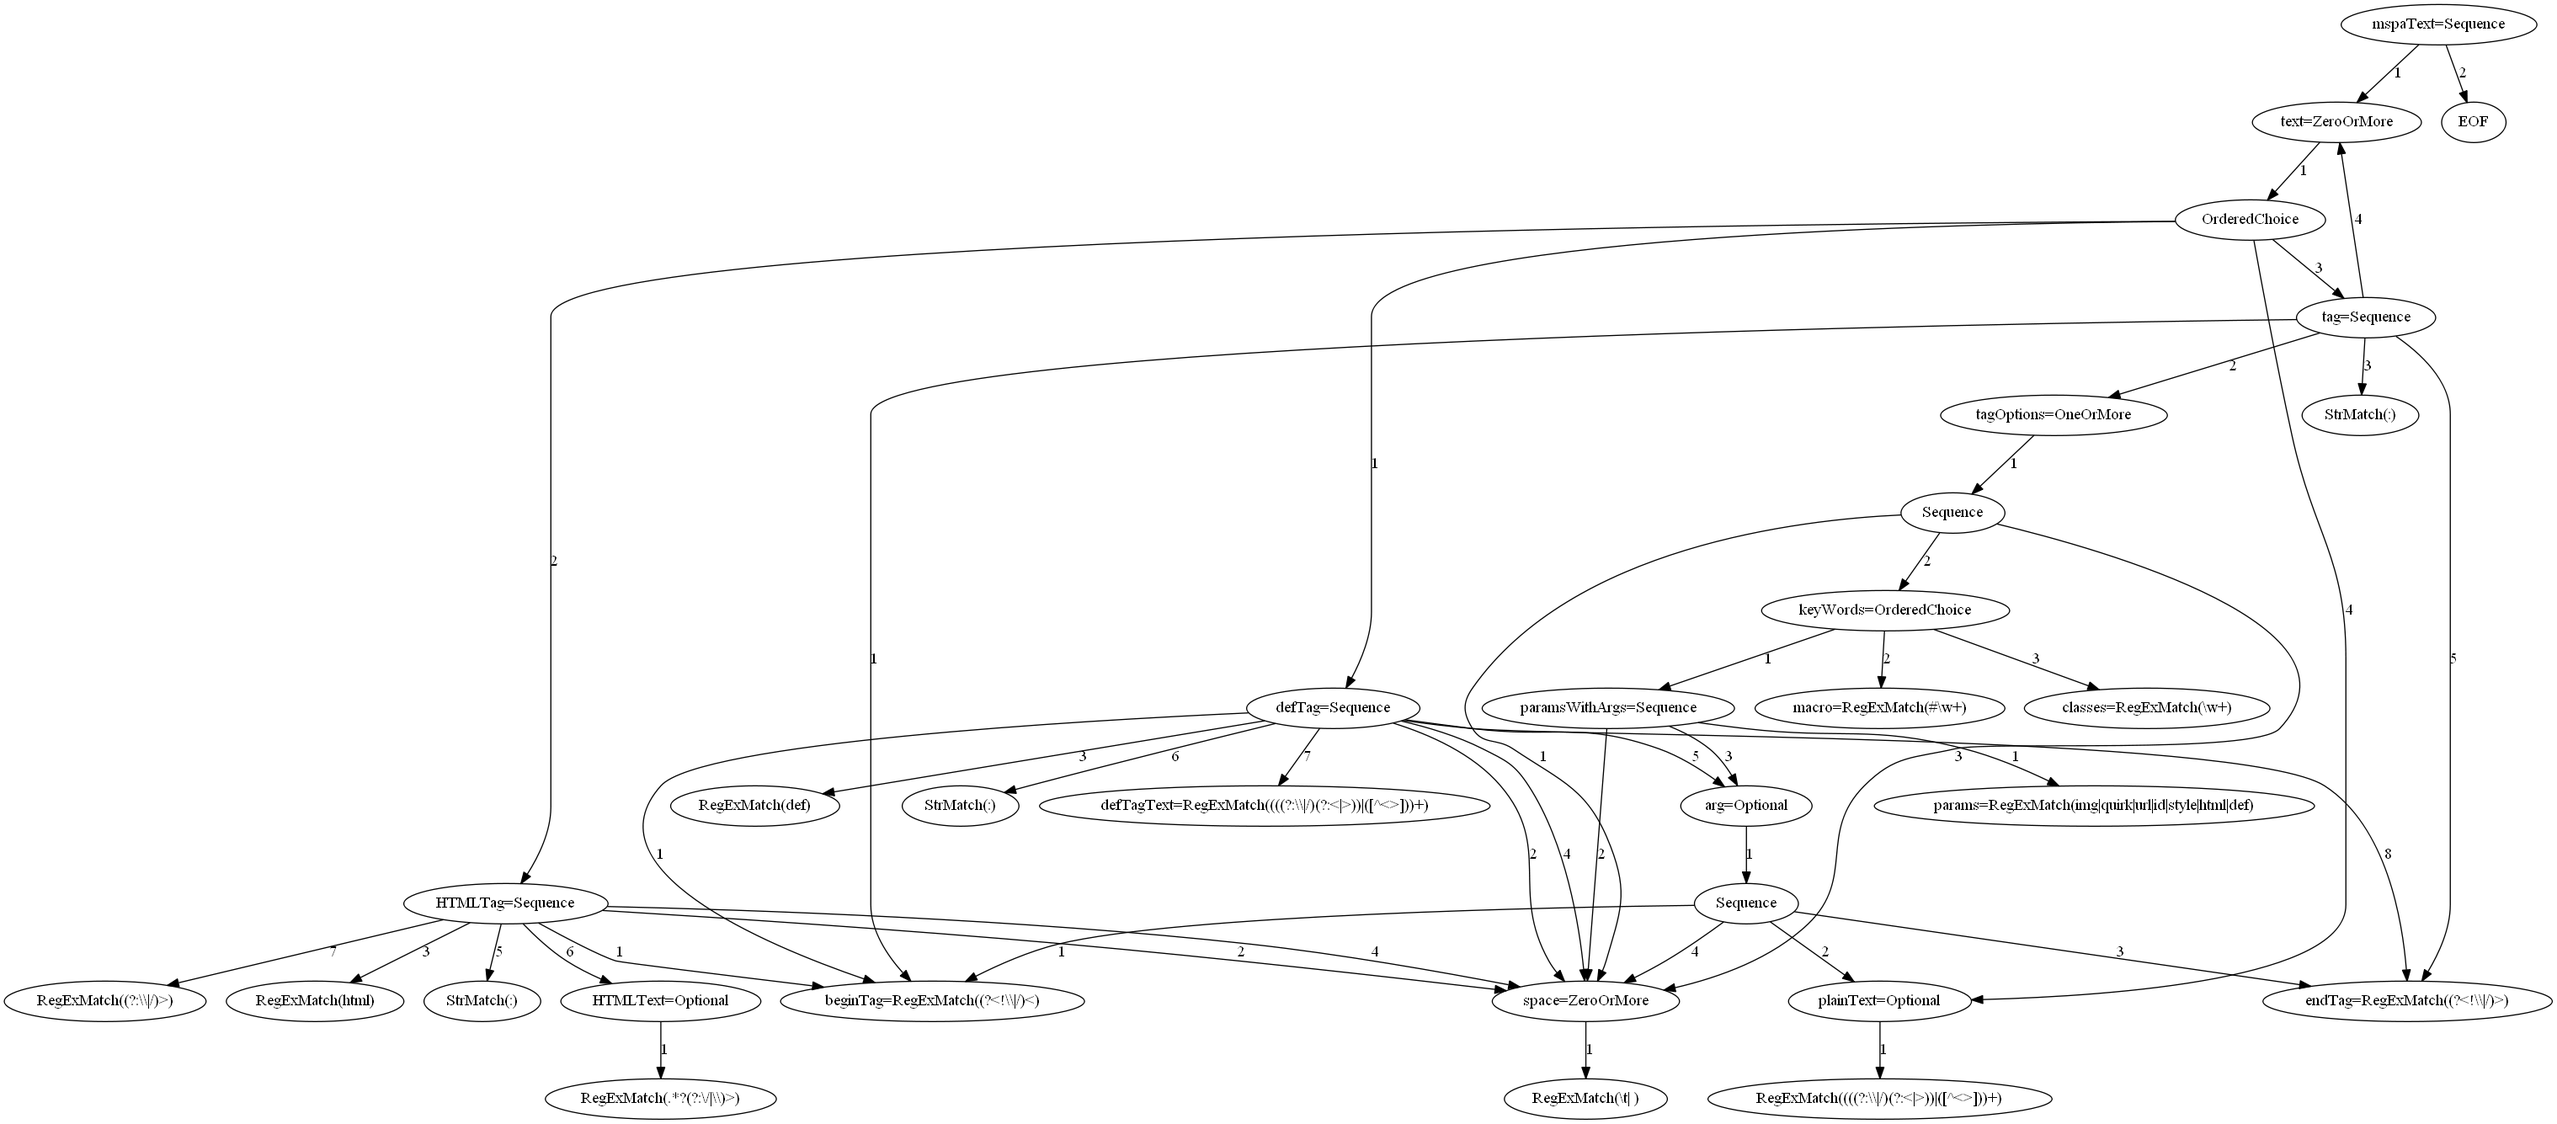
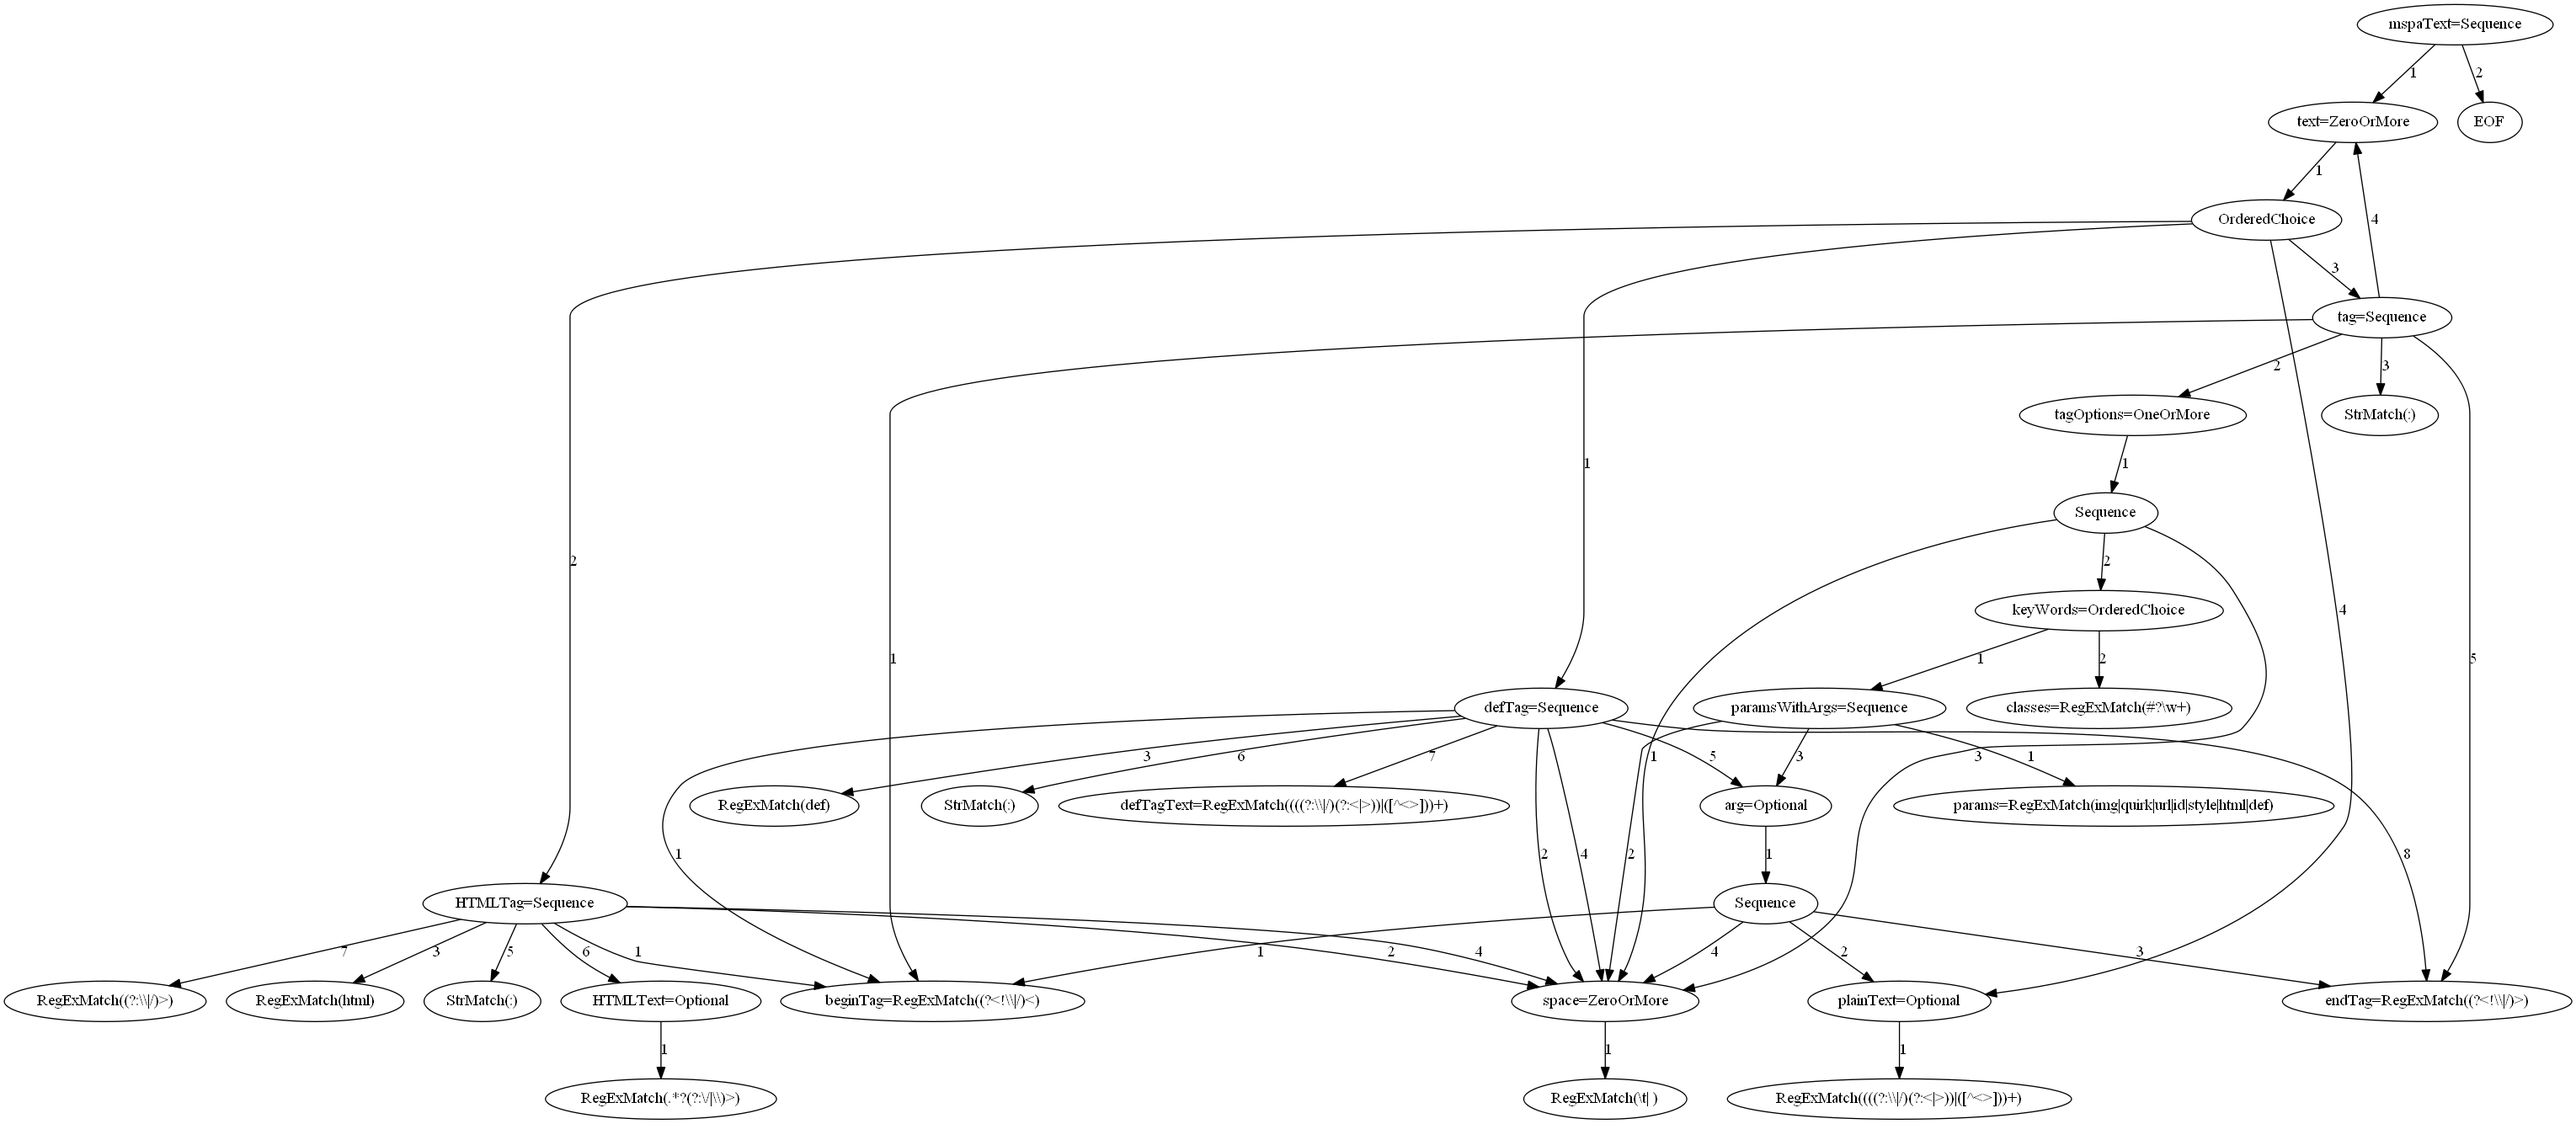
Macros are a part of classes Fixed capitalization Changed interpretation of "def" tag content

diff --git a/treeVisitor.py b/treeVisitor.py
@@ -16,7 +16,7 @@ def checkConflict(value, params):
     return None
 
 
-class visitor(PTNodeVisitor):
+class Visitor(PTNodeVisitor):
     def __init__(self, *args, src, **kwargs):
         super().__init__(*args, **kwargs)
         self.src = src
@@ -24,31 +24,20 @@ class visitor(PTNodeVisitor):
     def visit_plainText(self, node, children):
         text = node.value
 
-        text = re.sub('\\>|/>', '>;', text)
-        text = re.sub('\\<|/<', '<;', text)
+        text = re.sub('\\\\>|/>', '>', text)
+        text = re.sub('\\\\<|/<', '<', text)
 
-        # return text.split('\n')
         return text
 
     def visit_HTMLText(self, node, children):
         return node.value
 
-    def visit_defTagText(self, node, children):
-        text = node.value
-
-        if len(text) == 0:
-            raise NoText(node.position, self.src)
-
-        text = re.sub('\\>|/>', '>;', text)
-        text = re.sub('\\<|/<', '<;', text)
-
-        return text
-
     def visit_tag(self, node, children):
+        content = children.text[0] if len(children.text) else ['']
         return {
             'type': 'tag',
             'settings': children.tagOptions[0],
-            'content': children.text,
+            'content': content,
         }
 
     def visit_text(self, node, children):
@@ -63,18 +52,15 @@ class visitor(PTNodeVisitor):
             'settings': {},
             'type': 'def',
             'name': children.arg[0],
-            'content': children.defTagText,
+            'content': children.tagOptions[0],
         }
-
+    
     def visit_HTMLTag(self, node, children):
         return {
             'settings': {},
             'type': 'html',
             'content': children.HTMLText,
         }
-
-    def visit_macro(self, node, children):
-        return node.value[1:]
 
     def visit_params(self, node, children):
         return node.value
@@ -85,7 +71,6 @@ class visitor(PTNodeVisitor):
             return {'settings': param, 'error': True, }
 
         arg = children.arg
-
         if len(arg) == 0 or (len(arg) == 1 and arg[0] == [None]):
             if param == 'quirk':
                 arg = 0
@@ -127,8 +112,15 @@ class visitor(PTNodeVisitor):
         return {
             'params': params,
             'classes': children.classes,
-            'makros': children.makro,
         }
 
     def visit_tagOptions(self, node, children):
-        return children.keyWords[0]
+        params = {}
+        classes = []
+        for key in children.keyWords:
+            params.update(key['params'])
+            classes.extend(key['classes'])
+        return {
+            'params': params,
+            'classes': classes,
+        }

diff --git a/parserRules.py b/parserRules.py
@@ -14,10 +14,6 @@ def HTMLText():
     return ar.Optional(_(r'.*?(?:\/|\\)>'))
 
 
-def defTagText():
-    return _(r'(((?:\\|/)(?:<|>))|([^<>]))+')
-
-
 def beginTag():
     return _(r'(?<!\\|/)<')
 
@@ -32,16 +28,12 @@ def tag():
 
 def defTag():
     return (beginTag, space, _(r'def', ignore_case=True),
-            space, arg, ':', defTagText, endTag)
+            space, arg, ':', tagOptions, endTag)
 
 
 def HTMLTag():
     return (beginTag, space, _(r'html', ignore_case=True), space,
             ':', HTMLText, _(r'(?:\\|/)>'))
-
-
-def macro():
-    return _(r'#\w+')
 
 
 def params():
@@ -53,7 +45,7 @@ def paramsWithArgs():
 
 
 def classes():
-    return _(r'\w+')
+    return _(r'#?\w+')
 
 
 def arg():
@@ -61,7 +53,7 @@ def arg():
 
 
 def keyWords():
-    return [paramsWithArgs, macro, classes]
+    return [paramsWithArgs, classes]
 
 
 def tagOptions():

diff --git a/__init__.py b/__init__.py
@@ -1,6 +1,6 @@
 from arpeggio import ParserPython, visit_parse_tree
 from .parserRules import mspaText
-from .treeVisitor import visitor
+from .treeVisitor import Visitor
 
 
 def parse(text):
@@ -17,4 +17,4 @@ def parse(text):
 
 
 def generateDict(text):
-    return visit_parse_tree(parse(text), visitor(src=text))
+    return visit_parse_tree(parse(text), Visitor(src=text))
